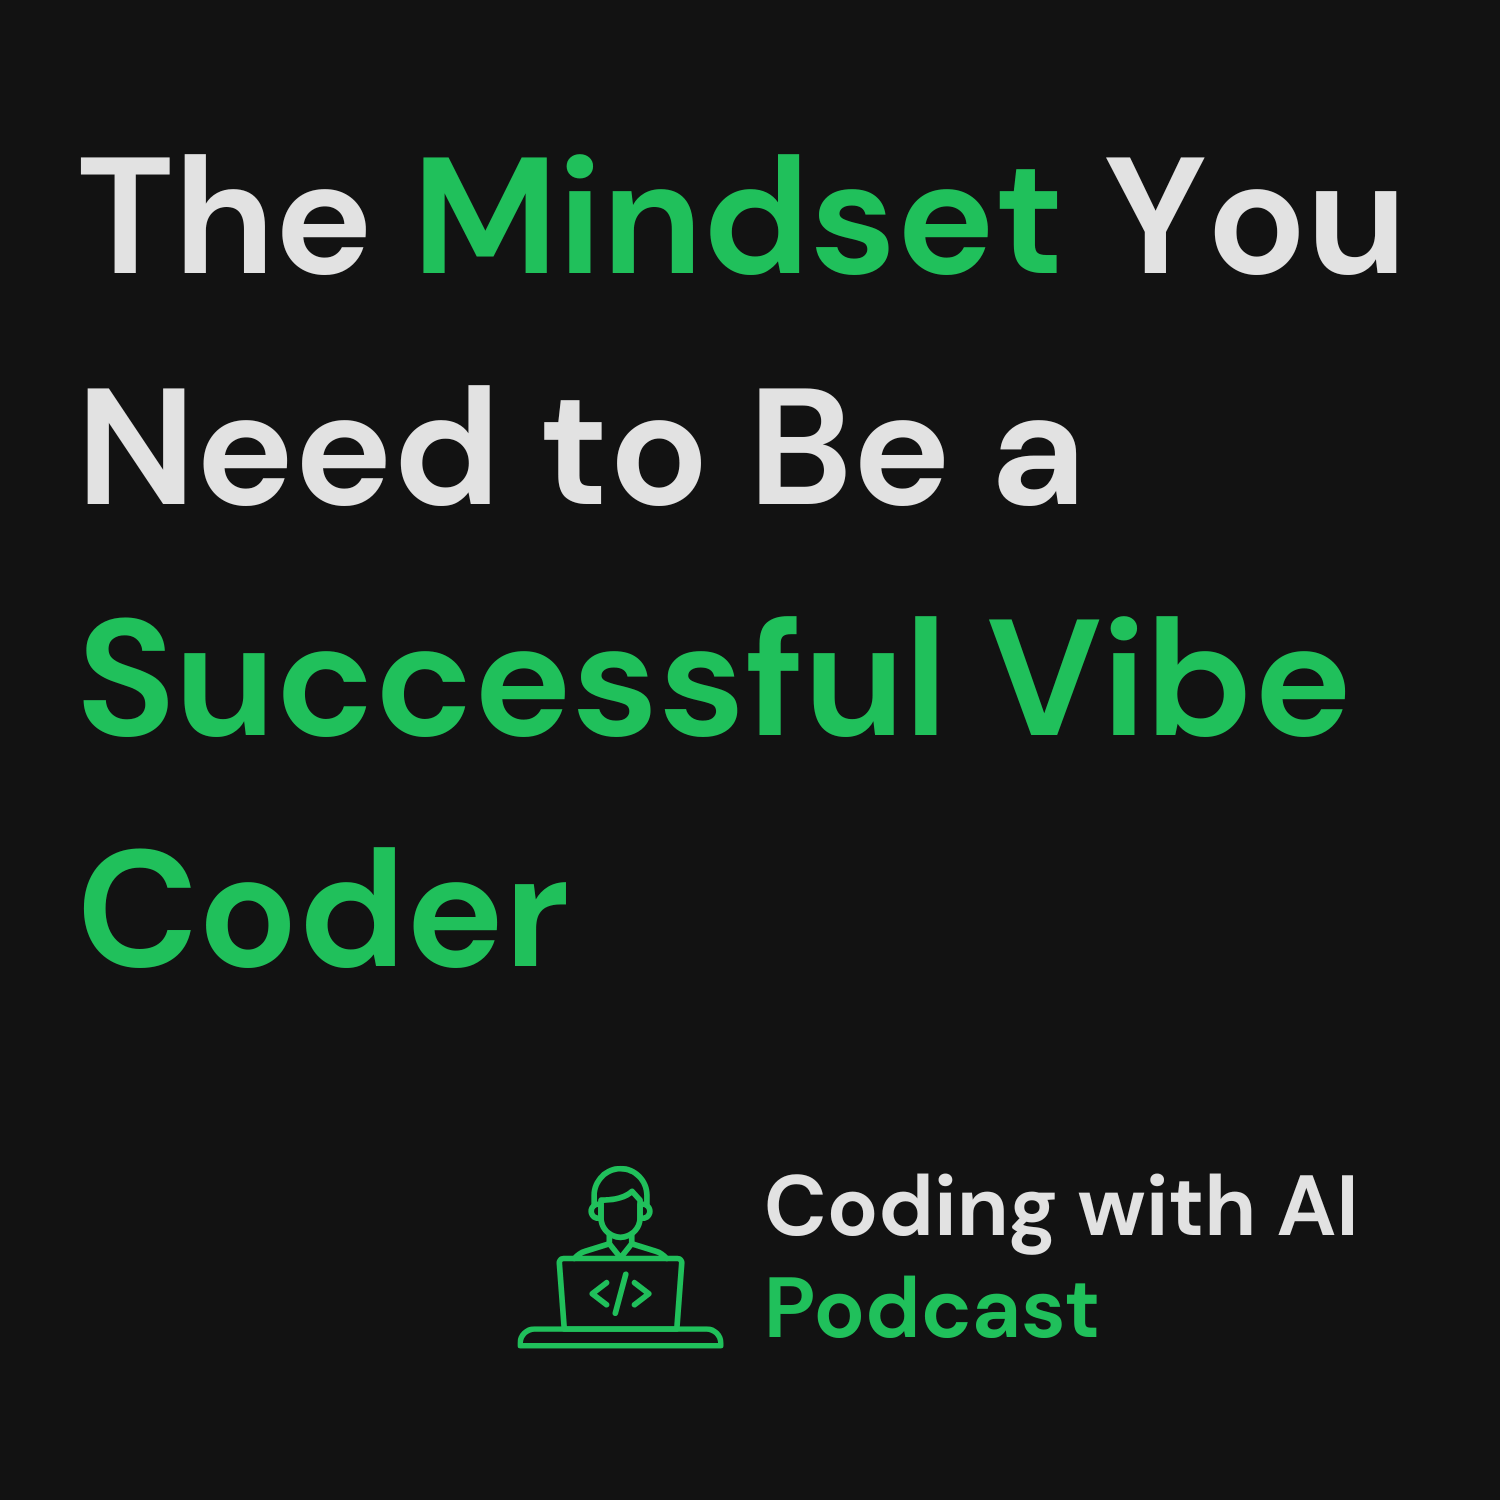
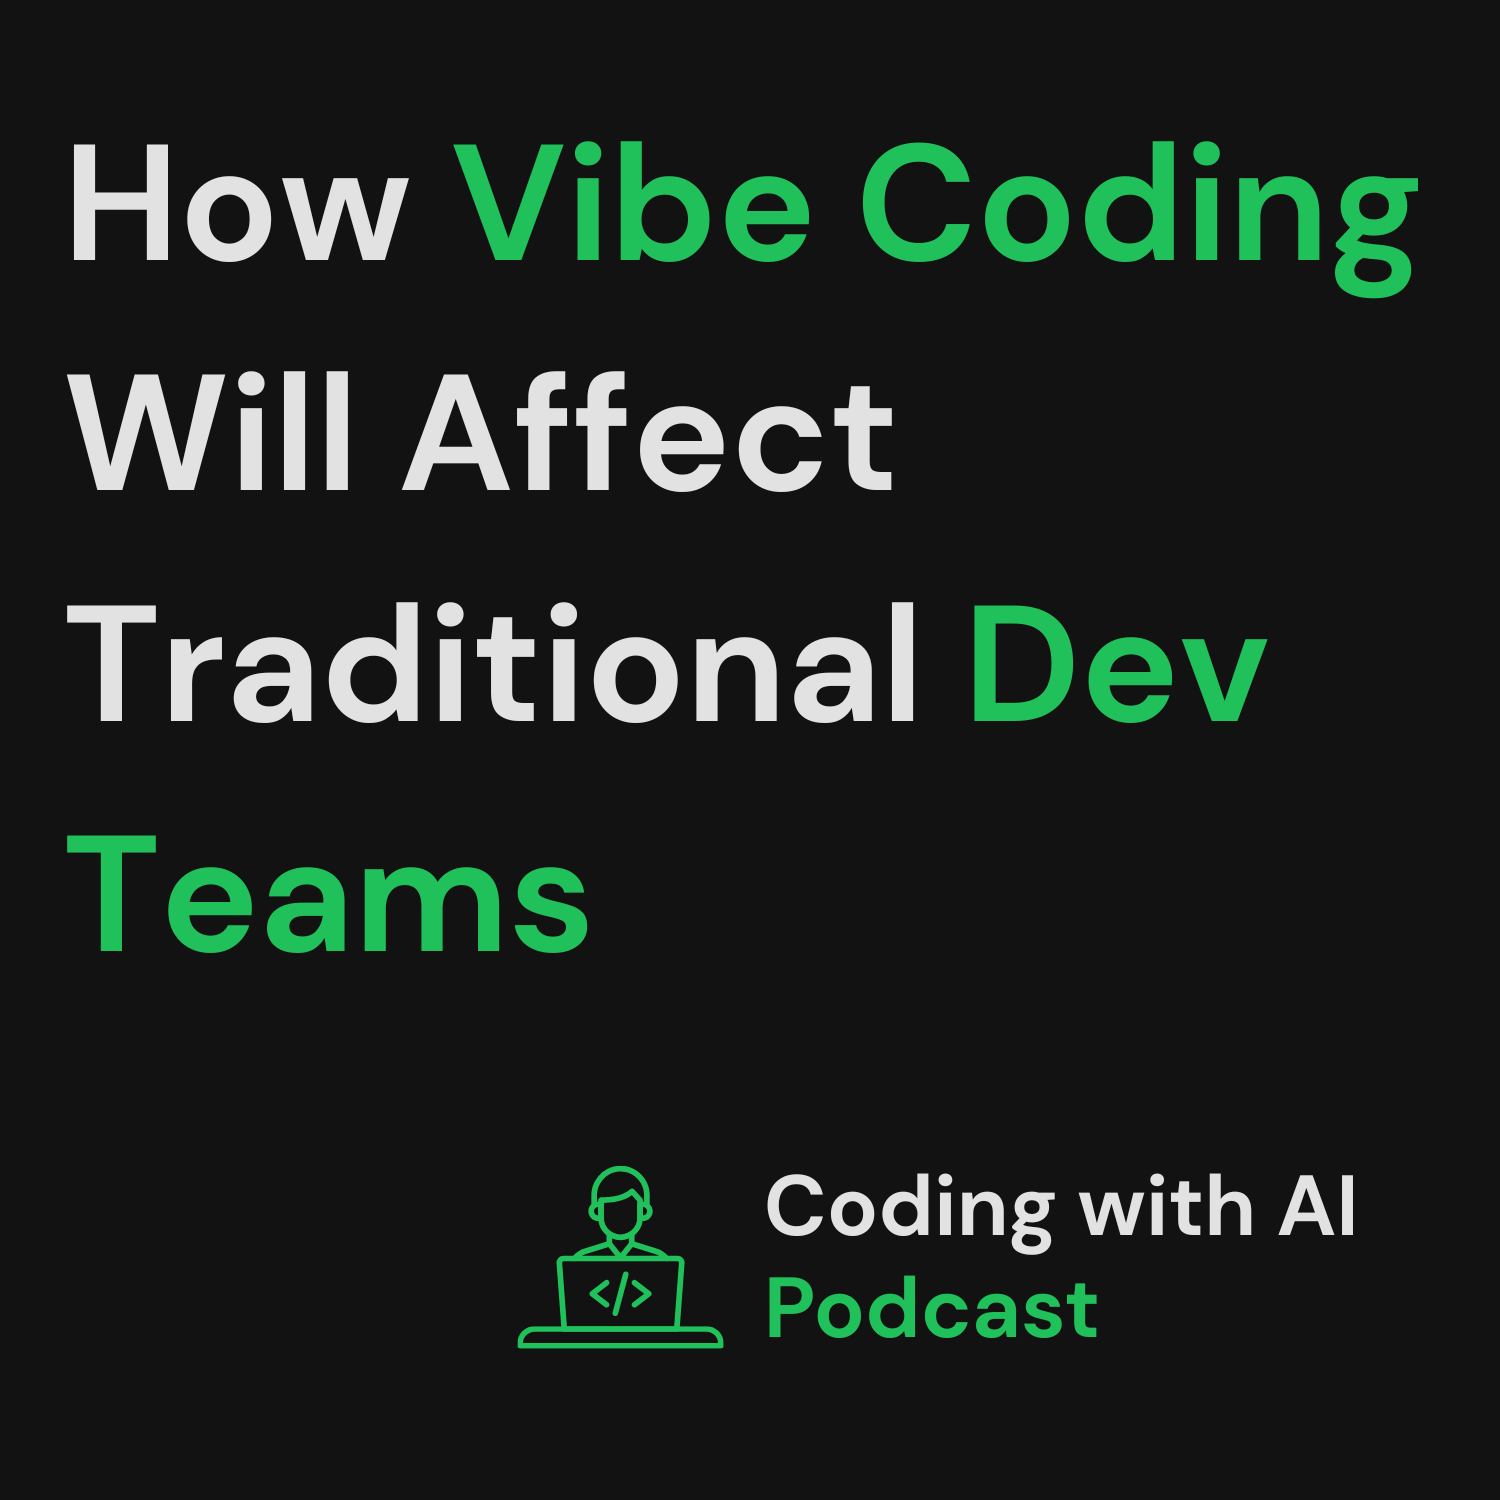
E5 Cancelled and replaced by another E5 Podcast Episode

diff --git a/content/podcast/how-vibe-coding-will-affect-traditional-dev-teams.md b/content/podcast/how-vibe-coding-will-affect-traditional-dev-teams.md
@@ -6,7 +6,7 @@ time = "10:00 AM PT"
 draft = false
 status = "upcoming"
 description = ""
-image = "images/podcast/e006.png"
+image = "images/podcast/e005.png"
 video_id = "TNc6wglt89A"
 audio_id = ""
 host = "marcelo-lewin"
